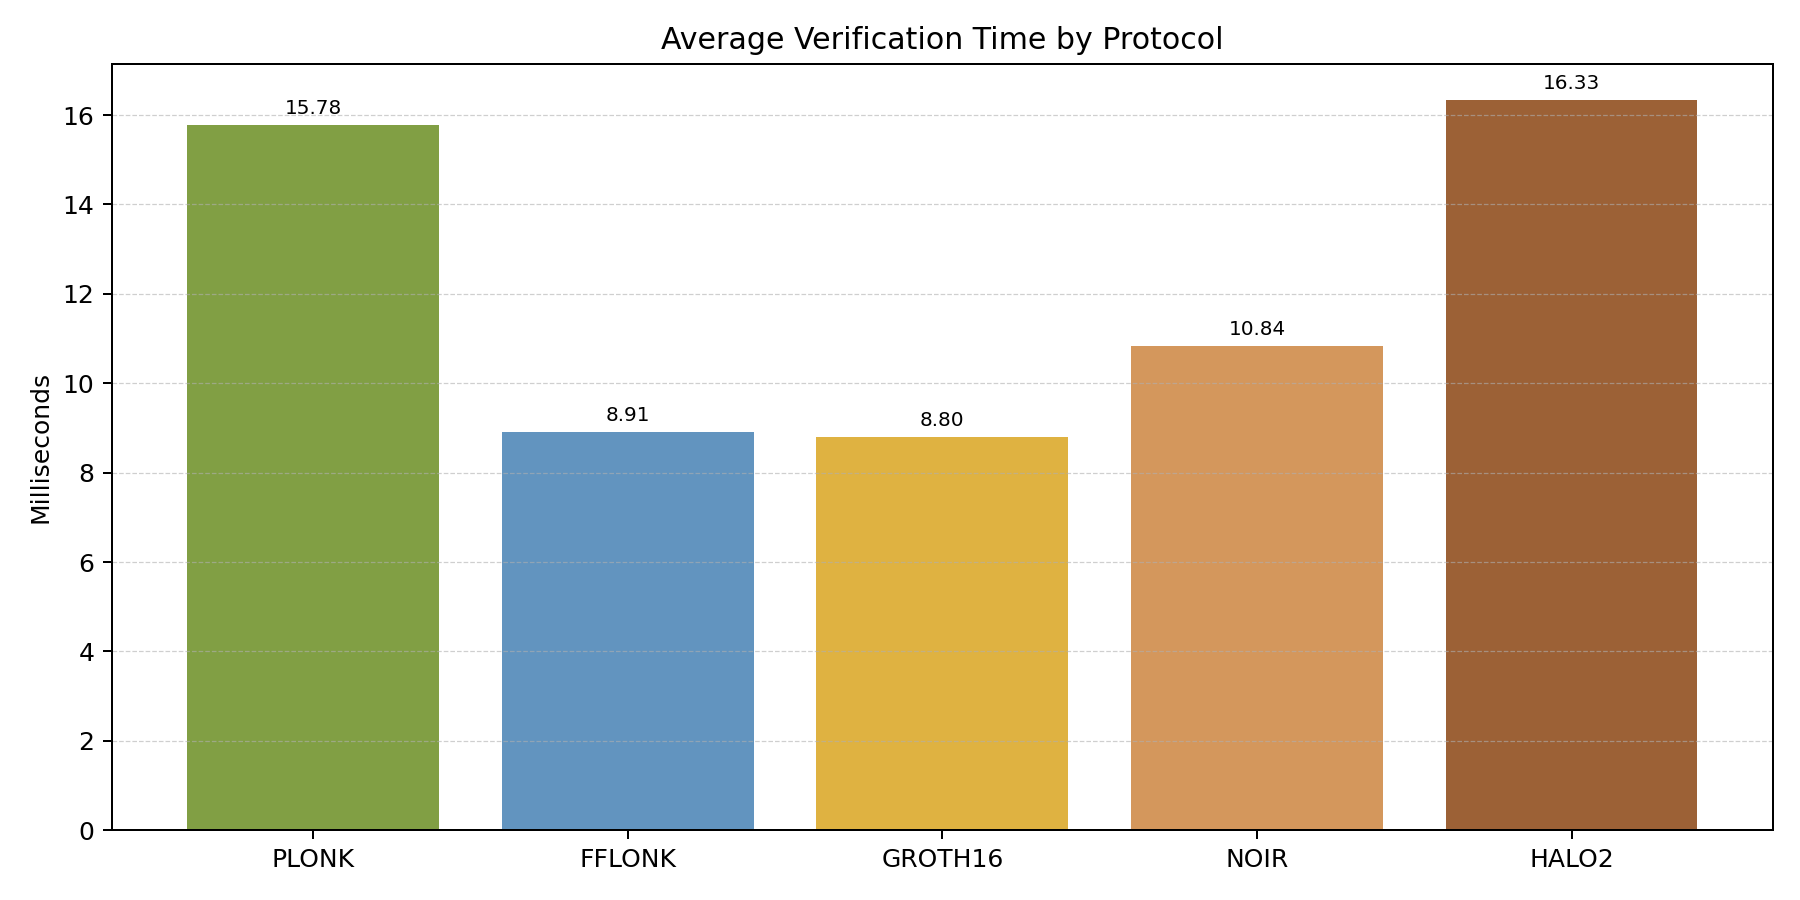
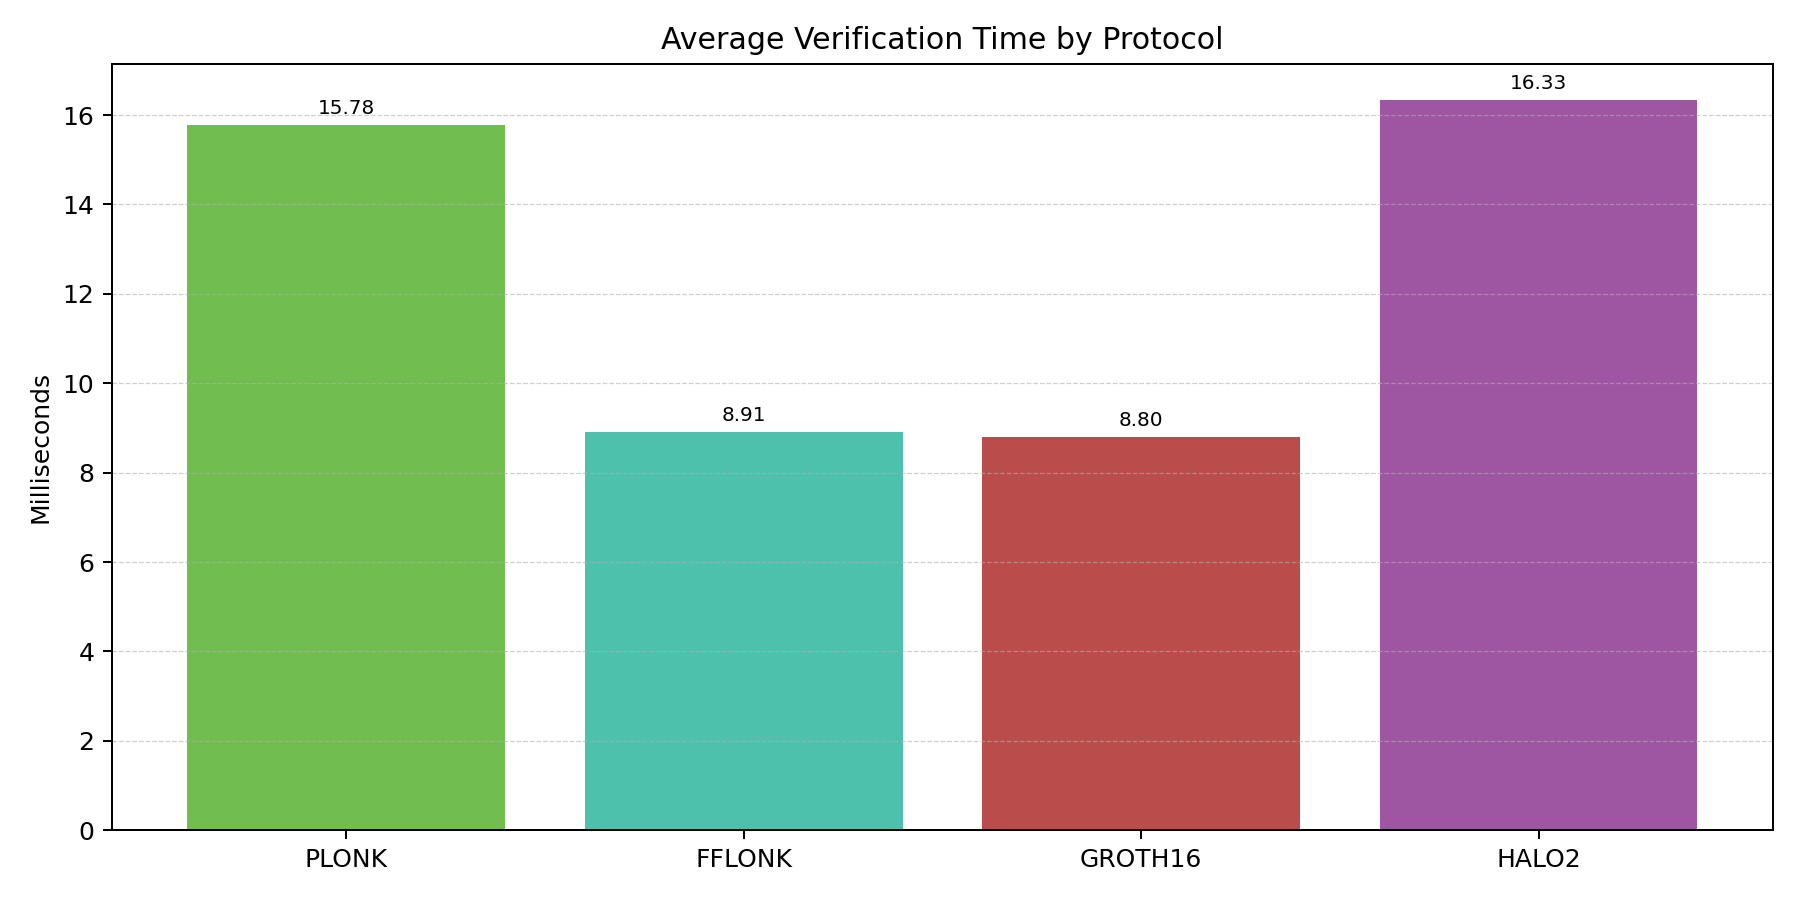
graphs

diff --git a/performance-experiments/plot-benchmarks.py b/performance-experiments/plot-benchmarks.py
@@ -25,13 +25,22 @@ import matplotlib.pyplot as plt
     #"halo2": "HALO2",
 #}
 
-PROTOCOLS = ["plonk", "fflonk", "groth16", "noir", "halo2"]
+PROTOCOLS = ["plonk", "fflonk", "groth16", "halo2"]
 PROTOCOL_LABELS = {
     "plonk": "PLONK",
     "fflonk": "FFLONK",
     "groth16": "GROTH16",
-    "noir": "NOIR",
+    #"noir": "NOIR",
     "halo2": "HALO2",
+}
+
+# Centralized protocol color mapping — change colors here to affect all plots
+PROTOCOL_COLORS = {
+    "plonk": "#59B230",
+    "fflonk": "#2FB69F",
+    "groth16": "#AF2C2C",
+    #"noir": "#B2BE27",
+    "halo2": "#8D3892",
 }
 
 
@@ -183,6 +192,7 @@ def plot_time_series(zkp_runs: list[dict], out_dir: Path) -> None:
                     markevery=marker_step,
                     linewidth=1.1,
                     alpha=0.95,
+                    color=PROTOCOL_COLORS.get(protocol),
                     label=PROTOCOL_LABELS[protocol],
                 )
             ax.set_title("Cumulative Gas Sum Over Runs by Protocol")
@@ -194,9 +204,9 @@ def plot_time_series(zkp_runs: list[dict], out_dir: Path) -> None:
             ax.legend(loc="upper left", ncol=3, frameon=False)
         else:
             series = extract_time_series(zkp_runs, metric_key)
-            colors = ["#4682B4","#DAA520","#6B8E23", "#CD853F", "#8B4513"]
             window = max(10, len(run_ids) // 40)
-            for protocol, color in zip(PROTOCOLS, colors):
+            for protocol in PROTOCOLS:
+                color = PROTOCOL_COLORS.get(protocol)
                 values = series[protocol]
                 ax.plot(run_ids, values, color=color, alpha=0.04, linewidth=0.8)
                 ax.plot(
@@ -232,7 +242,7 @@ def plot_grouped_means_with_error(zkp_runs: list[dict], out_dir: Path) -> None:
     labels = [PROTOCOL_LABELS[p] for p in PROTOCOLS]
     verify_means = [safe_mean(verify_vals[p]) for p in PROTOCOLS]
     verify_err = [safe_pstdev(verify_vals[p]) for p in PROTOCOLS]
-    colors = ["#6B8E23", "#4682B4", "#DAA520", "#CD853F", "#8B4513"]
+    colors = [PROTOCOL_COLORS.get(p) for p in PROTOCOLS]
 
     x = list(range(len(PROTOCOLS)))
     fig, ax = plt.subplots(figsize=(10, 5))
@@ -281,7 +291,7 @@ def plot_gas_grouped(zkp_runs: list[dict], out_dir: Path) -> None:
 
     labels = [PROTOCOL_LABELS[p] for p in PROTOCOLS]
     gas_means = [safe_mean(gas_vals[p]) for p in PROTOCOLS]
-    colors = ["#6B8E23", "#4682B4", "#DAA520", "#CD853F", "#8B4513"]
+    colors = [PROTOCOL_COLORS.get(p) for p in PROTOCOLS]
 
     x = list(range(len(PROTOCOLS)))
     fig, ax = plt.subplots(figsize=(10, 5))
@@ -304,7 +314,7 @@ def plot_speed_vs_gas(zkp_runs: list[dict], out_dir: Path) -> None:
     for protocol in PROTOCOLS:
         x = safe_mean(proof_vals[protocol])
         y = safe_mean(submit_vals[protocol])
-        plt.scatter([x], [y], s=130, label=PROTOCOL_LABELS[protocol])
+        plt.scatter([x], [y], s=130, label=PROTOCOL_LABELS[protocol], color=PROTOCOL_COLORS.get(protocol))
         plt.text(x + 10, y + 60, PROTOCOL_LABELS[protocol], fontsize=9)
 
     plt.xlabel("Average Proof Generation (ms)")
